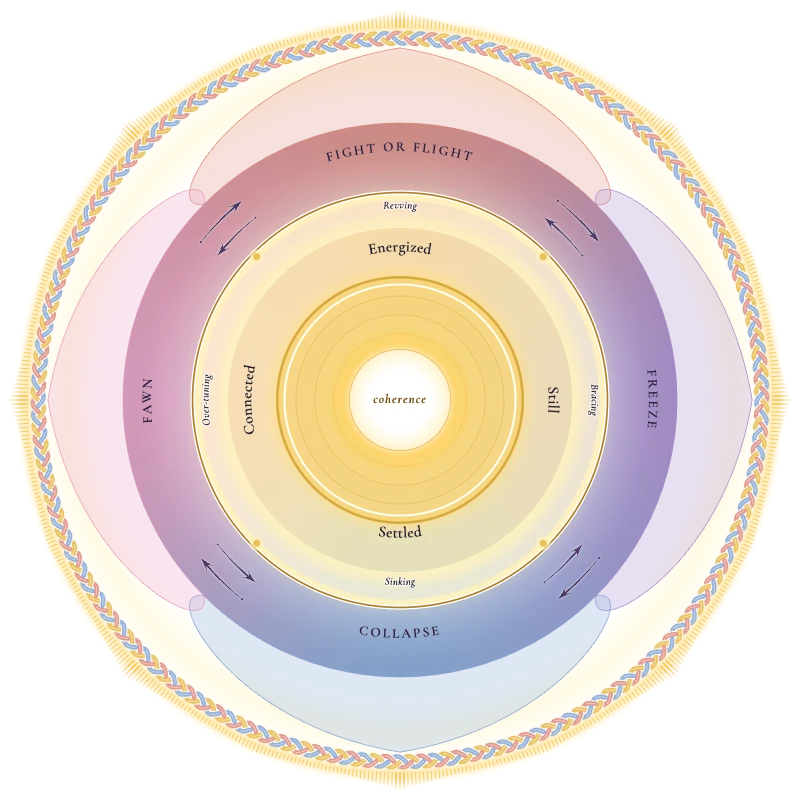
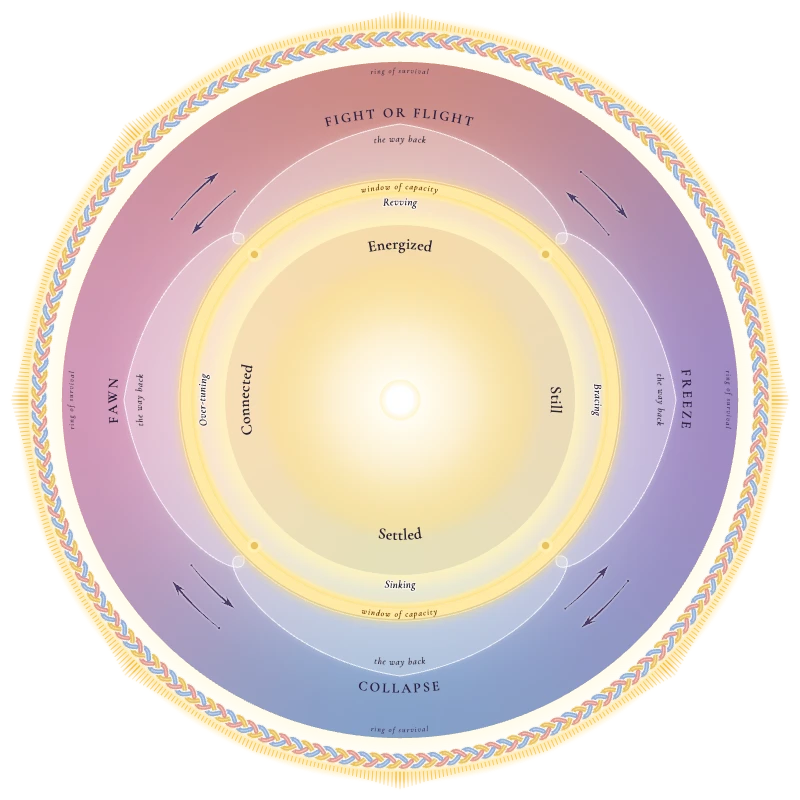
Window Mandala card: the wheel with its seamless center and the way back laid over the ring of survival

diff --git a/index.html b/index.html
@@ -102,7 +102,7 @@ const MANDALAS=[
   {name:"The Window Mandala", href:"https://erinsarita.github.io/window-mandala/", img:"img/window.webp", imgDark:"img/window-dark.webp", themeKey:"wm-theme",
    eyebrow:"The nervous system and its rhythms", tint:["#A8771E","#E8C46C"],
    text:"A map of the nervous system: coherence of mind, heart, and body at the center, the window of capacity around it, and the ring of survival beyond, with two dials for where you live and where you are, and ways back home.",
-   alt:"A glowing circle of coherence at the center, ringed by the window of capacity, the four survival states, four petals, and a braid with golden rays"}
+   alt:"A glowing center of coherence, ringed by the window of capacity and the ring of survival, with four petals of the way back laid over it, and a braid with golden rays"}
 ];
 const arrow=`<svg viewBox="0 0 16 16" fill="none" stroke="currentColor" stroke-width="1.8" stroke-linecap="round" stroke-linejoin="round" aria-hidden="true"><path d="M3 8h9M8.5 4.5 12 8l-3.5 3.5"/></svg>`;
 document.getElementById("grid").innerHTML=MANDALAS.map(m=>`<li><a class="card" href="${m.href}" style="--tint-l:${m.tint[0]};--tint-d:${m.tint[1]}">
